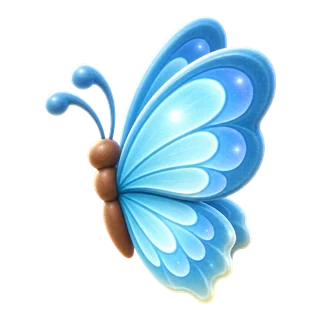
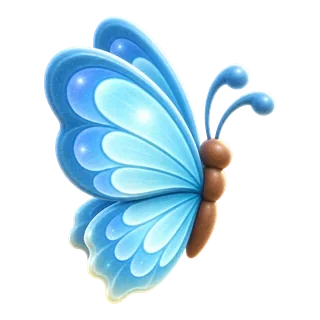
Papillon tourné dans le sens de son vol (0.10.12)
Claude-Session: https://claude.ai/code/session_018D5HKJWKwN88xpAGuhHMQJ

diff --git a/index.html b/index.html
@@ -6,12 +6,12 @@
   <title>potager-idle</title>
   <meta name="description" content="Un petit jeu idle de potager : plante, arrose, récolte, cuisine et découvre des variétés hybrides.">
   <meta name="theme-color" content="#f2f9e6" id="theme-color">
-  <link rel="manifest" href="manifest.webmanifest?v=32">
+  <link rel="manifest" href="manifest.webmanifest?v=33">
   <link rel="icon" href="icons/icon-64.png" sizes="64x64" type="image/png">
   <link rel="icon" href="icons/icon-192.png" sizes="192x192" type="image/png">
   <link rel="preload" href="fonts/nunito-latin.woff2" as="font" type="font/woff2" crossorigin>
   <link rel="preload" href="fonts/fredoka-latin.woff2" as="font" type="font/woff2" crossorigin>
-  <link rel="stylesheet" href="css/style.css?v=32">
+  <link rel="stylesheet" href="css/style.css?v=33">
 </head>
 <body>
 <div id="app">
@@ -40,9 +40,9 @@
 <div id="fx"></div>
 <div id="toasts" aria-live="polite"></div>
 
-<script src="js/data.js?v=32"></script>
-<script src="assets/img/manifest.js?v=32"></script>
-<script src="js/art.js?v=32"></script>
-<script src="js/game.js?v=32"></script>
+<script src="js/data.js?v=33"></script>
+<script src="assets/img/manifest.js?v=33"></script>
+<script src="js/art.js?v=33"></script>
+<script src="js/game.js?v=33"></script>
 </body>
 </html>

diff --git a/js/game.js b/js/game.js
@@ -1,7 +1,7 @@
 "use strict";
 /* Numéro de version affiché dans les Paramètres.
    À chaque mise à jour : changer APP_VERSION, le ?v= dans index.html et VERSION dans sw.js. */
-const APP_VERSION = "0.10.11";
+const APP_VERSION = "0.10.12";
 /* ---------------- Helpers ---------------- */
 const $ = s => document.querySelector(s);
 const now = () => Date.now();

diff --git a/sw.js b/sw.js
@@ -1,6 +1,6 @@
 /* Service worker de potager-idle : rend le jeu jouable hors-ligne.
    À chaque mise à jour du jeu, augmente VERSION pour que les téléphones téléchargent la nouvelle version. */
-const VERSION = "potager-v32";
+const VERSION = "potager-v33";
 const FILES = [
   "./",
   "index.html",
